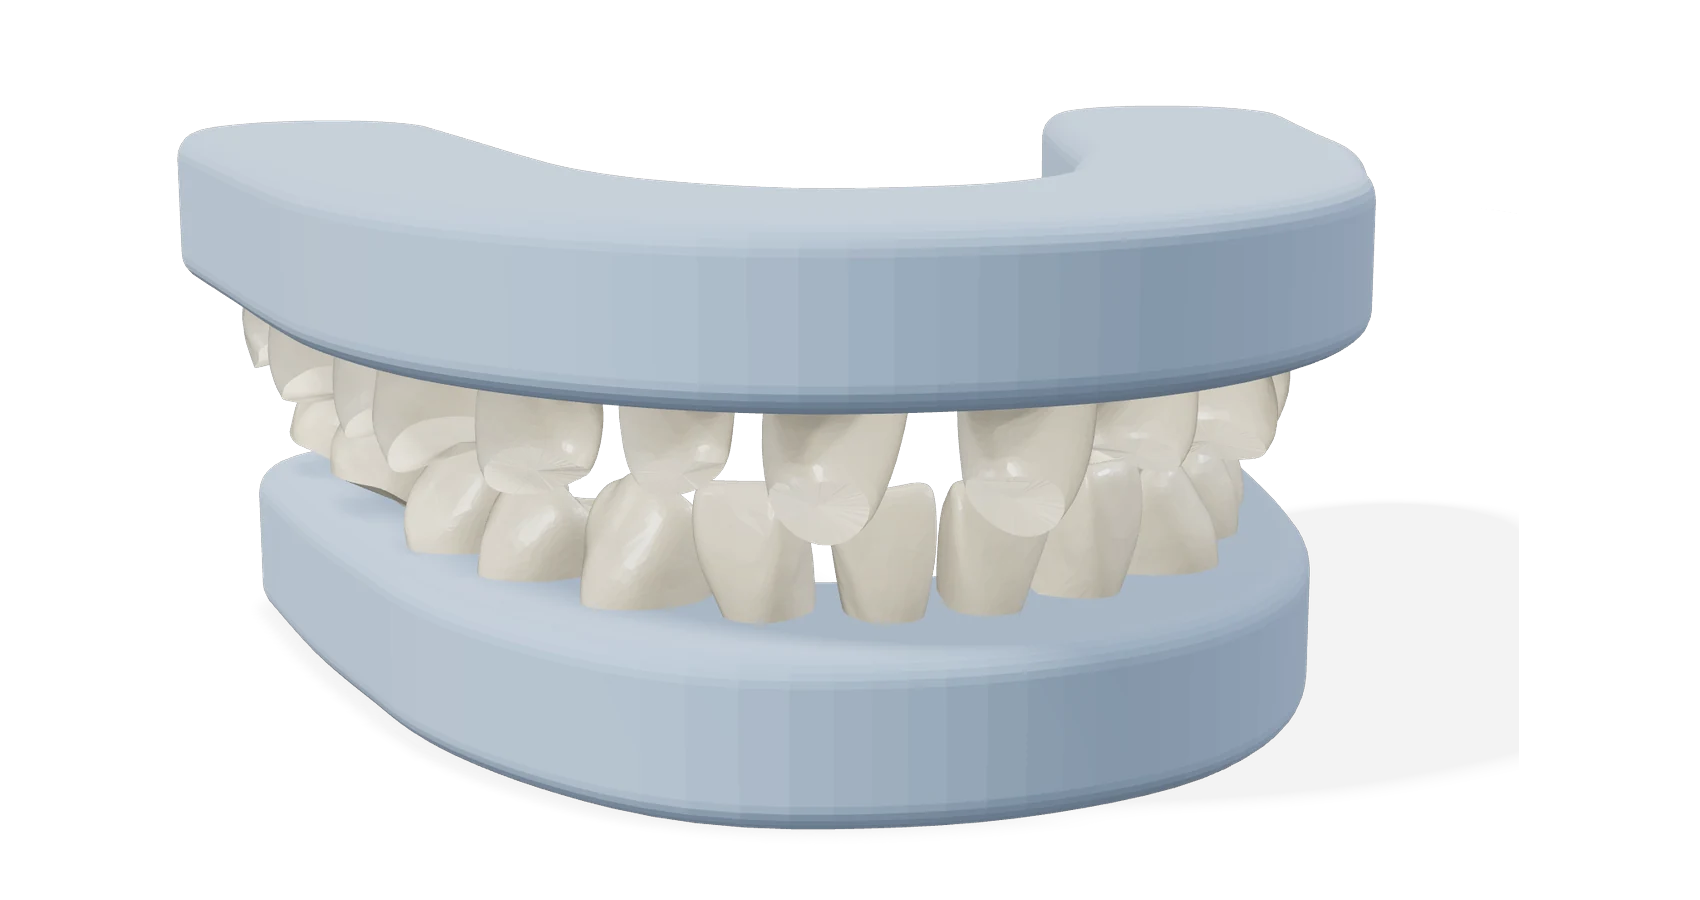
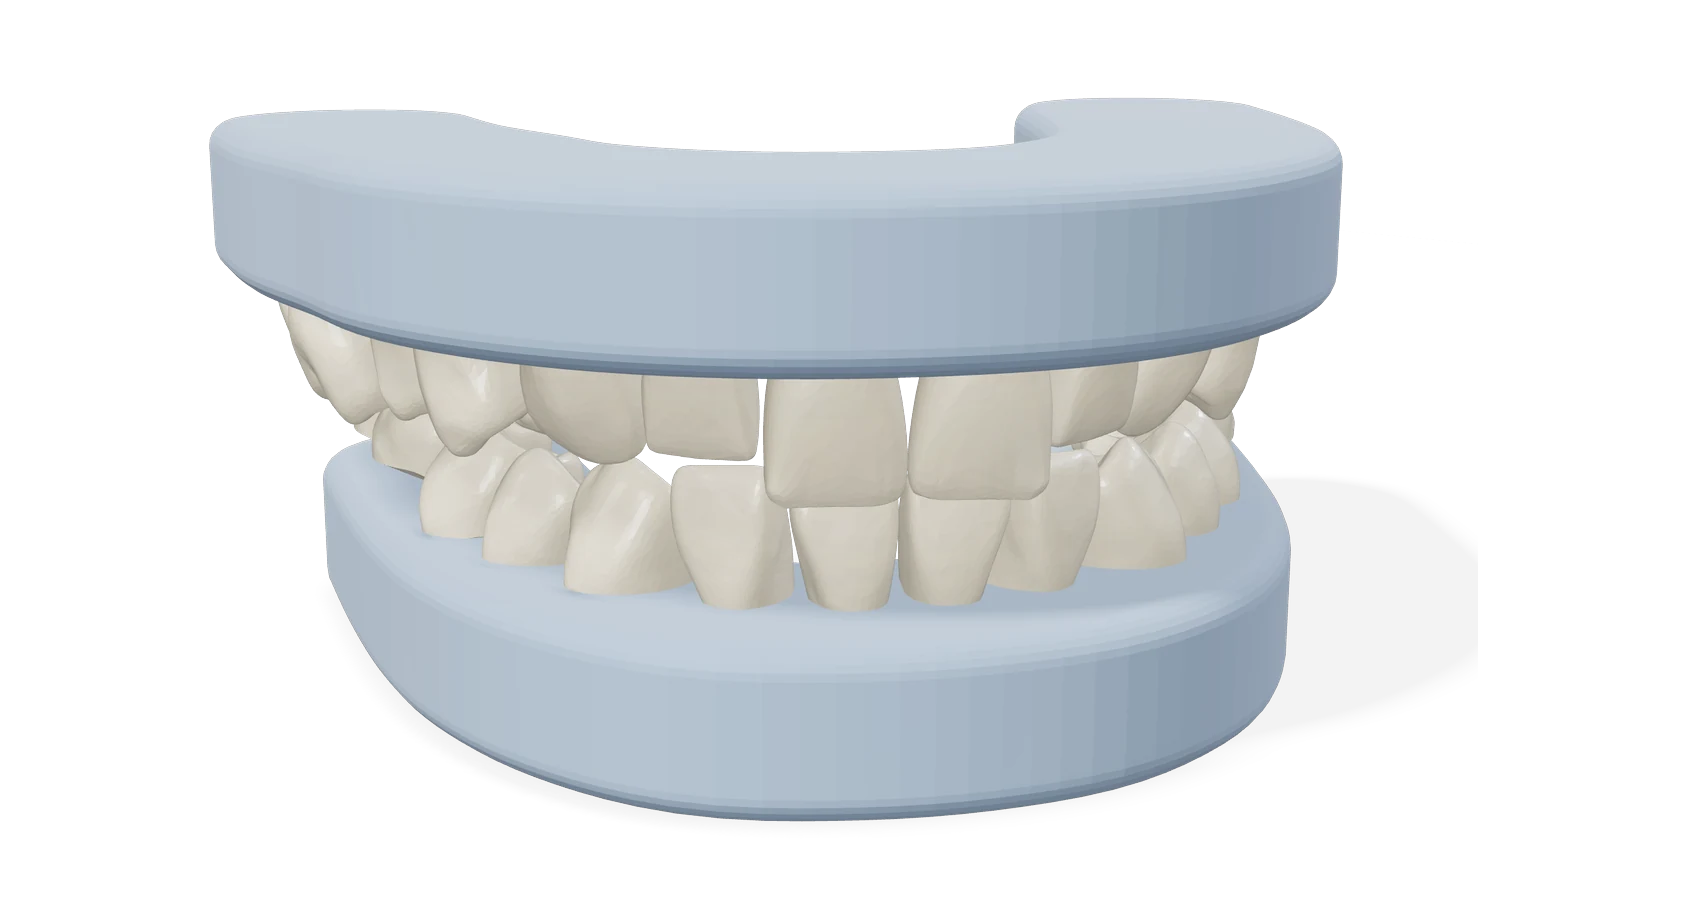
Dental Studio: workflow pictures start a case; Model Builder picture in true occlusion
Clicking a workflow's picture starts a new case, as New case does. The Model
Builder picture: the library arches with their contacts closed, levelled,
midlines aligned, the upper turned over the right way up, about 2 mm overjet
and overbite with the back teeth intercuspated.

Claude-Session: https://claude.ai/code/session_01XvzTdYw8DUL48B88VA1YS5

Changed region(s): [[0.0935, 0.0933, 0.8106, 0.9333], [0.7482, 0.1244, 0.7794, 0.1556], [0.2494, 0.5911, 0.2806, 0.6222]]

diff --git a/apps/web/src/components/home/StudioPage.tsx b/apps/web/src/components/home/StudioPage.tsx
@@ -92,11 +92,12 @@ export function DentalStart({ onStart, onScans, waxupShown }: { onStart: (tool: 
           if (files.length) onScans(files, tool);
         }}
       >
-        <div className="home-studio-stage">
+        {/* Build 104: the picture starts a new case, as New case does (and as Home's pictures open their studio). */}
+        <button type="button" className="home-studio-stage" aria-label={wax ? t("dentalStart.waxTitle") : t("dentalStart.modelTitle")} onClick={() => onStart(tool)}>
           <img src={wax ? "/assets/home/dental-hero.webp" : "/assets/home/model-builder-hero.webp"} alt="" draggable={false} />
           <span className="home-studio-kicker"><span className="home-studio-dot dental" aria-hidden="true" />{t("dentalStart.workflow")}</span>
           {over === tool ? <span className="dental-workflow-drop">{t("dentalStart.dropHere")}</span> : null}
-        </div>
+        </button>
         <div className="home-studio-body">
           <div className="home-studio-text">
             <h2 id={`dental-workflow-${tool}`}>
